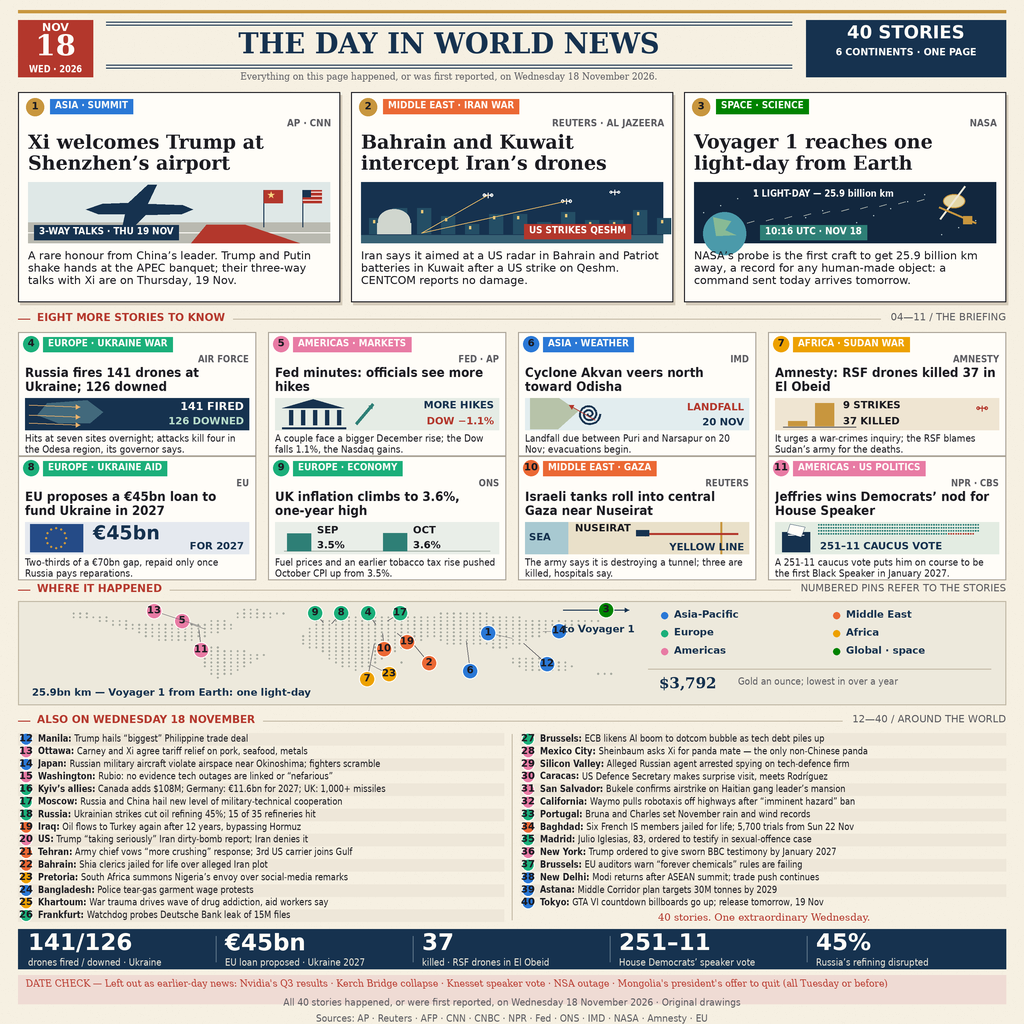
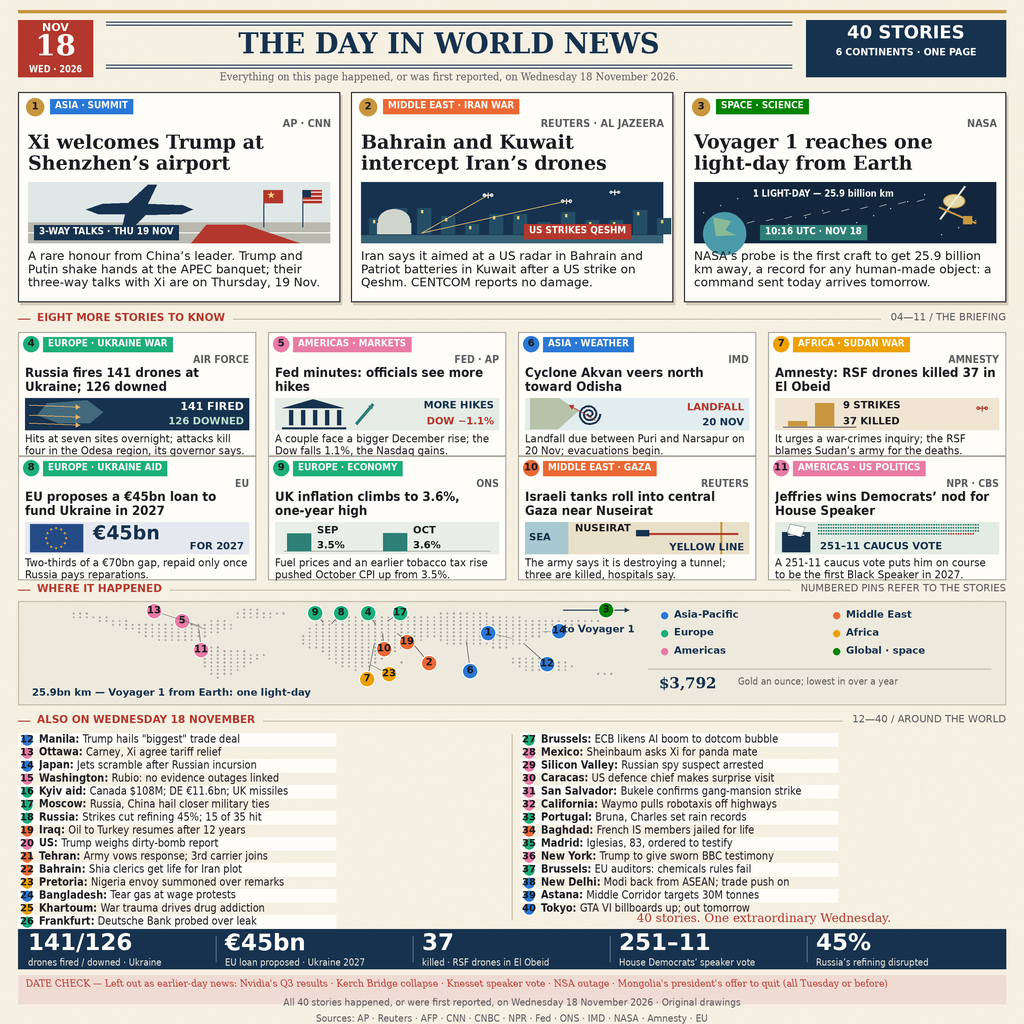
entry: 40 stories, story list at 11.5px for legibility at thumbnail size

diff --git a/render.py b/render.py
@@ -256,7 +256,7 @@ line([(106,68),(792,68)],NAVY)
 rect((806,20,1006,77),NAVY)
 text(906,25,'40 STORIES',18,'bold',WHITE,align='center')
 text(906,48,'6 CONTINENTS · ONE PAGE',10,'bold',WHITE,.94,align='center')
-text(449,72,'Everything on this page happened, or was first reported, on Wednesday 18 November 2026.',10,'serif',MUTED,.89,align='center')
+text(449,72,'Everything on this page happened, or was first reported, on Wednesday 18 November 2026.',11,'serif',MUTED,.89,align='center')
 
 HEROES=[
 (1,'ASIA · SUMMIT','Asia-Pacific','AP · CNN',"Xi welcomes Trump at Shenzhen’s airport", "A rare honour from China’s leader. Trump and Putin shake hands at the APEC banquet; their three-way talks with Xi are on Thursday, 19 Nov."),
@@ -268,10 +268,10 @@ for i,(n,tag,region,source,headline,body) in enumerate(HEROES):
     rect((x,y,x+w,bottom),WHITE,INK)
     circle_number(x+17,y+15,n)
     chip(x+32,y+7,tag,REGIONS[region])
-    text(x+w-9,y+27,source,10,'bold',MUTED,.88,align='right')
+    text(x+w-9,y+27,source,11,'bold',MUTED,.88,align='right')
     block(x+10,y+42,headline,w-20,19,'display',leading=21,bottom=y+85)
     art(n,x+10,y+90,w-20,61)
-    block(x+10,y+159,body,w-20,11,leading=12.4,bottom=bottom-7)
+    block(x+10,y+159,body,w-20,12,leading=13.2,bottom=bottom-7)
 
 section(313,'EIGHT MORE STORIES TO KNOW','04—11 / THE BRIEFING')
 MEDIUM=[
@@ -282,17 +282,17 @@ MEDIUM=[
 (8,'EUROPE · UKRAINE AID','Europe','EU','EU proposes a €45bn loan to fund Ukraine in 2027','Two-thirds of a €70bn gap, repaid only once Russia pays reparations.'),
 (9,'EUROPE · ECONOMY','Europe','ONS','UK inflation climbs to 3.6%, one-year high','Fuel prices and an earlier tobacco tax rise pushed October CPI up from 3.5%.'),
 (10,'MIDDLE EAST · GAZA','Middle East','REUTERS','Israeli tanks roll into central Gaza near Nuseirat','The army says it is destroying a tunnel; three are killed, hospitals say.'),
-(11,'AMERICAS · US POLITICS','Americas','NPR · CBS','Jeffries wins Democrats’ nod for House Speaker','A 251-11 caucus vote puts him on course to be the first Black Speaker in January 2027.')]
+(11,'AMERICAS · US POLITICS','Americas','NPR · CBS','Jeffries wins Democrats’ nod for House Speaker','A 251-11 caucus vote puts him on course to be the first Black Speaker in 2027.')]
 for i,(n,tag,region,source,headline,body) in enumerate(MEDIUM):
     x=18+(i%4)*250; y=332+(i//4)*124; w=238
     rect((x,y,x+w,y+124),WHITE,'#a9a295')
     circle_number(x+13,y+12,n,REGIONS[region],9)
     chip(x+25,y+5,tag,REGIONS[region])
-    text(x+w-7,y+23,source,10,'bold',MUTED,.85,align='right')
+    text(x+w-7,y+23,source,11,'bold',MUTED,.85,align='right')
     block(x+7,y+35,headline,w-14,13,'bold',leading=14,bottom=y+63,cond=.91)
     art(n,x+7,y+66,w-14,32)
     # Body occupies its own two-line strip below the illustration, in the gutter.
-    block(x+7,y+102,body,w-14,10,leading=11,bottom=y+124,cond=.88)
+    block(x+7,y+102,body,w-14,11,leading=12,bottom=y+125,cond=.92)
 
 # Dot-matrix atlas, intentionally diagrammatic; pins use the list's story IDs.
 section(584,'WHERE IT HAPPENED','NUMBERED PINS REFER TO THE STORIES')
@@ -352,48 +352,47 @@ text(32,688,'25.9bn km — Voyager 1 from Earth: one light-day',10,'bold',NAVY)
 
 section(715,'ALSO ON WEDNESDAY 18 NOVEMBER','12—40 / AROUND THE WORLD')
 BRIEFS=[
-(12,'Manila','Trump hails “biggest” Philippine trade deal','Asia-Pacific'),
-(13,'Ottawa','Carney and Xi agree tariff relief on pork, seafood, metals','Americas'),
-(14,'Japan','Russian military aircraft violate airspace near Okinoshima; fighters scramble','Asia-Pacific'),
-(15,'Washington','Rubio: no evidence tech outages are linked or “nefarious”','Americas'),
-(16,'Kyiv’s allies','Canada adds $108M; Germany: €11.6bn for 2027; UK: 1,000+ missiles','Europe'),
-(17,'Moscow','Russia and China hail new level of military-technical cooperation','Europe'),
-(18,'Russia','Ukrainian strikes cut oil refining 45%; 15 of 35 refineries hit','Europe'),
-(19,'Iraq','Oil flows to Turkey again after 12 years, bypassing Hormuz','Middle East'),
-(20,'US','Trump “taking seriously” Iran dirty-bomb report; Iran denies it','Americas'),
-(21,'Tehran','Army chief vows “more crushing” response; 3rd US carrier joins Gulf','Middle East'),
-(22,'Bahrain','Shia clerics jailed for life over alleged Iran plot','Middle East'),
-(23,'Pretoria','South Africa summons Nigeria’s envoy over social-media remarks','Africa'),
-(24,'Bangladesh','Police tear-gas garment wage protests','Asia-Pacific'),
-(25,'Khartoum','War trauma drives wave of drug addiction, aid workers say','Africa'),
-(26,'Frankfurt','Watchdog probes Deutsche Bank leak of 15M files','Europe'),
-(27,'Brussels','ECB likens AI boom to dotcom bubble as tech debt piles up','Europe'),
-(28,'Mexico City','Sheinbaum asks Xi for panda mate — the only non-Chinese panda','Americas'),
-(29,'Silicon Valley','Alleged Russian agent arrested spying on tech-defence firm','Americas'),
-(30,'Caracas','US Defence Secretary makes surprise visit, meets Rodríguez','Americas'),
-(31,'San Salvador','Bukele confirms airstrike on Haitian gang leader’s mansion','Americas'),
-(32,'California','Waymo pulls robotaxis off highways after “imminent hazard” ban','Americas'),
-(33,'Portugal','Bruna and Charles set November rain and wind records','Europe'),
-(34,'Baghdad','Six French IS members jailed for life; 5,700 trials from Sun 22 Nov','Middle East'),
-(35,'Madrid','Julio Iglesias, 83, ordered to testify in sexual-offence case','Europe'),
-(36,'New York','Trump ordered to give sworn BBC testimony by January 2027','Americas'),
-(37,'Brussels','EU auditors warn “forever chemicals” rules are failing','Europe'),
-(38,'New Delhi','Modi returns after ASEAN summit; trade push continues','Asia-Pacific'),
-(39,'Astana','Middle Corridor plan targets 30M tonnes by 2029','Asia-Pacific'),
-(40,'Tokyo','GTA VI countdown billboards go up; release tomorrow, 19 Nov','Asia-Pacific')]
+(12,'Manila','Trump hails "biggest" trade deal','Asia-Pacific'),
+(13,'Ottawa','Carney, Xi agree tariff relief','Americas'),
+(14,'Japan','Jets scramble after Russian incursion','Asia-Pacific'),
+(15,'Washington','Rubio: no evidence outages linked','Americas'),
+(16,'Kyiv aid','Canada $108M; DE €11.6bn; UK missiles','Europe'),
+(17,'Moscow','Russia, China hail closer military ties','Europe'),
+(18,'Russia','Strikes cut refining 45%; 15 of 35 hit','Europe'),
+(19,'Iraq','Oil to Turkey resumes after 12 years','Middle East'),
+(20,'US','Trump weighs dirty-bomb report','Americas'),
+(21,'Tehran','Army vows response; 3rd carrier joins','Middle East'),
+(22,'Bahrain','Shia clerics get life for Iran plot','Middle East'),
+(23,'Pretoria','Nigeria envoy summoned over remarks','Africa'),
+(24,'Bangladesh','Tear gas at wage protests','Asia-Pacific'),
+(25,'Khartoum','War trauma drives drug addiction','Africa'),
+(26,'Frankfurt','Deutsche Bank probed over leak','Europe'),
+(27,'Brussels','ECB likens AI boom to dotcom bubble','Europe'),
+(28,'Mexico','Sheinbaum asks Xi for panda mate','Americas'),
+(29,'Silicon Valley','Russian spy suspect arrested','Americas'),
+(30,'Caracas','US defence chief makes surprise visit','Americas'),
+(31,'San Salvador','Bukele confirms gang-mansion strike','Americas'),
+(32,'California','Waymo pulls robotaxis off highways','Americas'),
+(33,'Portugal','Bruna, Charles set rain records','Europe'),
+(34,'Baghdad','French IS members jailed for life','Middle East'),
+(35,'Madrid','Iglesias, 83, ordered to testify','Europe'),
+(36,'New York','Trump to give sworn BBC testimony','Americas'),
+(37,'Brussels','EU auditors: chemicals rules fail','Europe'),
+(38,'New Delhi','Modi back from ASEAN; trade push on','Asia-Pacific'),
+(39,'Astana','Middle Corridor targets 30M tonnes','Asia-Pacific'),
+(40,'Tokyo','GTA VI billboards up; out tomorrow','Asia-Pacific')]
 for i,(n,place,story,region) in enumerate(BRIEFS):
-    col=0 if i<15 else 1; row=i if i<15 else i-15
-    x=18+col*502; y=734+row*12.6
-    if row%2==0: rect((x,y-1,x+486,y+11.3),'#eee7d9')
-    circle_number(x+8,y+5,n,REGIONS[region],6.3)
-    tx=x+20
-    # A fixed condensed setting keeps every brief on one line without reducing size.
-    cond=.81
+    col,row = (0,i) if i<15 else (1,i-15)
+    x=18+col*502; y=734+row*13.0
+    if row%2==0: rect((x,y-1,x+318,y+12.2),WHITE)
+    circle_number(x+9,y+6,n,REGIONS[region],6.3)
+    tx=x+21
+    cond=.86
     label=place+': '
-    ww=text(tx,y,label,10,'bold',INK,cond)
-    text(tx+ww,y,story,10,'sans',INK,cond,maxw=486-20-ww)
+    ww=text(tx,y,label,11.5,'bold',INK,cond)
+    text(tx+ww,y,story,11.5,'sans',INK,cond,maxw=486-21-ww)
 line([(512,734),(512,920)],'#c5bba7')
-text(764,913,'40 stories. One extraordinary Wednesday.',10,'serif',RED,align='center')
+text(764,913,'40 stories. One extraordinary Wednesday.',12,'serif',RED,align='center')
 
 # Day in numbers: fixed tiles, no implied comparative scale.
 rect((18,929,1006,969),NAVY)
